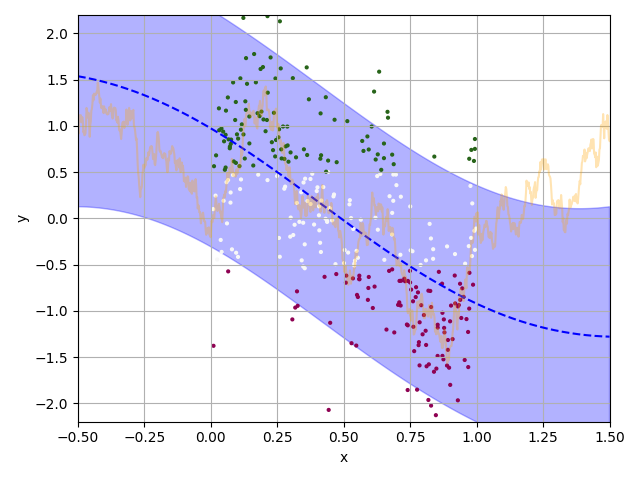
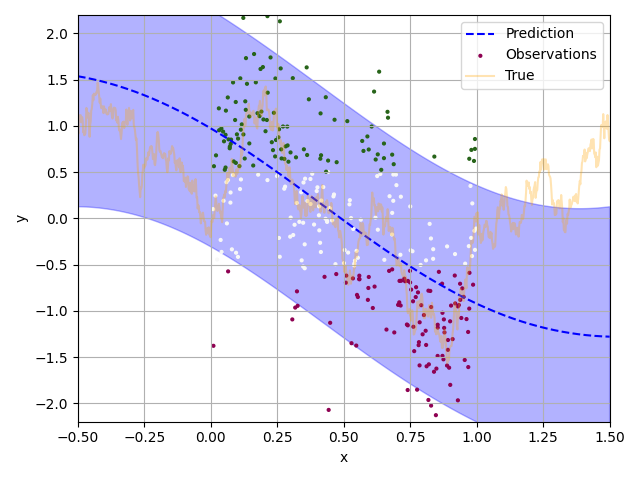
tidy package, change readme image

Changed region(s): [[0.7188, 0.0312, 0.9375, 0.1875], [0.0312, 0.4375, 0.0625, 0.4688]]

diff --git a/probit/approximators.py b/probit/approximators.py
@@ -4,33 +4,40 @@ import jax
 import lab.jax as B
 import jax.numpy as jnp
 from jax import value_and_grad, grad, jit, vmap
-from probit_jax.implicit.solvers import (
+from probit.implicit.solvers import (
     fwd_solver, newton_solver,
     fixed_point_layer, fixed_point_layer_fwd, fixed_point_layer_bwd)
-from probit_jax.implicit.Laplace import f_LA, objective_LA
-from probit_jax.implicit.VB import f_VB, objective_VB
+from probit.implicit.Laplace import f_LA, objective_LA
+from probit.implicit.VB import f_VB, objective_VB
 
 
 class Approximator(ABC):
     """
-    Base class for GP classification approximators.
+    Base class for GP regression/classification approximators.
 
-    This class allows users to define a classification problem,
+    This class allows users to define a regression/classification problem,
     get predictions using an approximate Bayesian inference. Here, N is the
-    number of training datapoints, D is the data input dimensions, J is the
-    number of ordinal classes, N_test is the number of testing datapoints.
+    number of training datapoints, D is the data input dimensions, N_test
+    is the number of testing datapoints.
 
+    All approximators must define a repr method.
     All approximators must define an init method, which may or may not
         inherit Sampler as a parent class using `super()`.
-    All approximators that inherit Approximator define a number of methods that
-        return the approximate posterior.
-    All approximators must define a :meth:`approximate_posterior` that can be
-        used to approximate the posterior and get ELBO gradients with respect
-        to the hyperparameters.
-    All approximators must define a :meth:`_approximate_initiate` that is used
-        to initiate approximate.
-    All approximators must define a :meth:`predict` can be used to make
-        predictions given test data.
+    All approximators that inherit Approximator define a number of methods
+        that return the approximate posterior.
+    All approximators must define a :meth:`construct` that can be
+        used to define an implicit layer that is differentiable,
+        in the spirit of
+        (this)[http://implicit-layers-tutorial.org/implicit_functions/].
+    All approximators must define a :meth:`objective` that can be
+        used to define a type-II maximum likelihood objective for
+        hyper-parameter optimization, e.g. (negative) log marginal
+        likelihood or (negative) ELBO.
+    All approximators must define a :meth:`weight` that can be
+        used to define the first moment of an approximate posterior.
+    All approximators must define a :meth:`precision` that takes in
+        `weights` and `parameters` and can be used to define the
+        second moment of an approximate posterior.
     """
 
     @abstractmethod
@@ -91,6 +98,7 @@ class Approximator(ABC):
         X_train, _ = data
         (self.N, self.D) = jnp.shape(X_train)
         self.data = data
+
         # Set up a JAX-transformable function for a custom VJP rule definition
         fixed_point_layer.defvjp(
             fixed_point_layer_fwd, fixed_point_layer_bwd)
@@ -99,7 +107,7 @@ class Approximator(ABC):
     def construct(self):
         """
         The parameterized function, which takes in parameters, that is the
-        function in fixed point iteration.
+        implicit function to be satisfied by fixed point iteration.
 
         This method should be implemented in every concrete Approximator.
         """
@@ -123,6 +131,7 @@ class Approximator(ABC):
         The weight, that is part of the solution of GP regression.
 
         This method should be implemented in every concrete Approximator.
+        Returns: A (N,) JAX array.
         """
 
     @abstractmethod
@@ -131,6 +140,7 @@ class Approximator(ABC):
         The precision, that is part of the solution of GP regression.
 
         This method should be implemented in every concrete Approximator.
+        Returns: A (N,) JAX array.
         """
 
     def predict(
@@ -139,15 +149,18 @@ class Approximator(ABC):
         parameters,
         weight, precision):
         """
-        Make posterior prediction over ordinal classes of X_test.
+        Make posterior predictions given test data, X_test.
 
         :arg X_test: The new data points, array like (N_test, D).
-        :arg weight: The solution of GP regression.
+        :arg parameters: The GP hyper-parameters like
+            ((tuple), (tuple)).
+        :arg weight: The solution of GP regression. Used to calculate
+            the first moment of the posterior predictions.
         :type weight: Array like (N,)`
-        :arg precision: Solution of GP regression.
-            Precisions used in calculation of posterior
-            predictions. Array like (N,).
-        :type precision: :class:`numpy.ndarray`
+        :arg precision: Solution of GP regression. Used to calculate
+            the second moment of the posterior predictions. Array
+            like (N,).
+        :type precision: Array like (N,)`
         :return: Gaussian process predictive mean and variance array.
         :rtype tuple: ((N_test,), (N_test,))
         """
@@ -162,10 +175,14 @@ class Approximator(ABC):
         return predictive_posterior_mean, predictive_posterior_variance
 
     def posterior_mean(self, weight):
+        """Returns a Gaussian Process mean."""
         K = B.dense(self.prior(parameters[0])(self.data[0]))
         return K @ weight
 
     def approximate_posterior(self, parameters):
+        """Returns weights and precisions that can be used to
+        calculate the first and second moments of an
+        approximate posterior."""
         w = self.weight(parameters)
         p, _ = self.precision(w, parameters)
         return w, p
@@ -197,35 +214,16 @@ class LaplaceGP(Approximator):
         """
         Create an :class:`LaplaceGP` Approximator object.
 
-        :returns: An :class:`EPGP` object.
+        :returns: An :class:`LaplaceGP` object.
         """
         super().__init__(*args, **kwargs)
 
     def construct(self):
-        """Fixed point iteration function"""
         return lambda parameters, weight: f_LA(
             prior_parameters=parameters[0],
             likelihood_parameters=parameters[1],
             prior=self.prior, grad_log_likelihood=self.grad_log_likelihood,
             weight=weight, data=self.data)
-
-    def weight(self, parameters):
-        """
-        :returns: A JAX array.
-        """
-        f = self.construct()
-        return newton_solver(lambda z: f(parameters, z),
-            jnp.zeros(self.N), self.tolerance)
-
-    def precision(self, weight, parameters):
-        """
-        :returns: A JAX array.
-        """
-        K = B.dense(self.prior(parameters[0])(self.data[0]))
-        posterior_mean = K @ weight
-        precision = -self.hessian_log_likelihood(
-            posterior_mean, self.data[1], parameters[1])
-        return precision, posterior_mean
 
     def objective(self):
         return lambda parameters: objective_LA(
@@ -236,7 +234,19 @@ class LaplaceGP(Approximator):
                 fixed_point_layer(jnp.zeros(self.N), self.tolerance,
                     newton_solver, self.construct(), parameters),
                 self.data)
-    
+
+    def weight(self, parameters):
+        f = self.construct()
+        return newton_solver(lambda z: f(parameters, z),
+            jnp.zeros(self.N), self.tolerance)
+
+    def precision(self, weight, parameters):
+        K = B.dense(self.prior(parameters[0])(self.data[0]))
+        posterior_mean = K @ weight
+        precision = -self.hessian_log_likelihood(
+            posterior_mean, self.data[1], parameters[1])
+        return precision, posterior_mean
+
 
 class VBGP(Approximator):
     """
@@ -265,28 +275,11 @@ class VBGP(Approximator):
         super().__init__(*args, **kwargs)
 
     def construct(self):
-        """Fixed point iteration function"""
         return lambda parameters, weight: f_VB(
             prior_parameters=parameters[0],
             likelihood_parameters=parameters[1],
             prior=self.prior, grad_log_likelihood=self.grad_log_likelihood,
             weight=weight, data=self.data)
-
-    def weight(self, parameters):
-        """
-        :returns: A JAX array.
-        """
-        f = self.construct()
-        return fwd_solver(lambda z: f(parameters, z),
-            jnp.zeros(self.N), self.tolerance)
-
-    def precision(self, weight, parameters):
-        """
-        :returns: A JAX array.
-        """
-        K = B.dense(self.prior(parameters[0])(self.data[0]))
-        posterior_mean = K @ weight
-        return 1./ parameters[1][0]**2 * jnp.ones(weight.shape[0]), posterior_mean
 
     def objective(self):
         return lambda parameters: objective_VB(
@@ -297,3 +290,12 @@ class VBGP(Approximator):
                 fwd_solver, self.construct(), parameters),
             self.data)
 
+    def weight(self, parameters):
+        f = self.construct()
+        return fwd_solver(lambda z: f(parameters, z),
+            jnp.zeros(self.N), self.tolerance)
+
+    def precision(self, weight, parameters):
+        K = B.dense(self.prior(parameters[0])(self.data[0]))
+        posterior_mean = K @ weight
+        return 1./ parameters[1][0]**2 * jnp.ones(weight.shape[0]), posterior_mean

diff --git a/examples/classification.py b/examples/classification.py
@@ -2,7 +2,8 @@
 # Uncomment to enable double precision
 from jax.config import config
 config.update("jax_enable_x64", True)
-from probit_jax.utilities import (
+
+from probit.utilities import (
     InvalidKernel, check_cutpoints,
     log_probit_likelihood, probit_predictive_distributions)
 import numpy as np
@@ -64,9 +65,10 @@ def plot(x, predictive_distributions, mean,
     ax.set_xlim(-0.5, 1.5)
     ax.set_xlabel('x', fontsize=10)
     ax.set_ylabel('y', fontsize=10)
-    ax.scatter(X_train, g_train, color=[colors[i] for i in y_train], s=4)
+    ax.scatter(X_train, g_train, color=[colors[i] for i in y_train], s=4, label="Observations")
     ax.plot(X_show, f_show, label="True", color='orange', alpha=FG_ALPHA)
     ax.grid(visible=True, which='major', linestyle='-')
+    ax.legend()
     plt.tight_layout()
     fig.savefig("{}_mean_variance.png".format(fname),
         facecolor=fig.get_facecolor(), edgecolor='none')
@@ -300,9 +302,9 @@ def main():
  
     approximate_inference_method = "Laplace"
     if approximate_inference_method=="Variational Bayes":
-        from probit_jax.approximators import VBGP as Approximator
+        from probit.approximators import VBGP as Approximator
     elif approximate_inference_method=="Laplace":
-        from probit_jax.approximators import LaplaceGP as Approximator
+        from probit.approximators import LaplaceGP as Approximator
 
     J = 3
     cmap = plt.cm.get_cmap('PiYG', J)

diff --git a/probit/implicit/solvers.py b/probit/implicit/solvers.py
@@ -1,4 +1,4 @@
-import jax
+from jax import jacobian, custom_vjp, vjp
 from functools import partial
 import jax.numpy as jnp
 from jaxopt import FixedPointIteration
@@ -21,11 +21,11 @@ def newton_solver(f, z_init, tolerance):
     variables at the fix-point.
     """
     f_root = lambda z: f(z) - z
-    g = lambda z: z - jnp.linalg.solve(jax.jacobian(f_root)(z), f_root(z))
+    g = lambda z: z - jnp.linalg.solve(jacobian(f_root)(z), f_root(z))
     return fwd_solver(g, z_init, tolerance)
 
 
-@partial(jax.custom_vjp, nondiff_argnums=(2, 3))
+@partial(custom_vjp, nondiff_argnums=(2, 3))
 def fixed_point_layer(z_init, tolerance, solver, f, params):
     """
     Following the tutorial, Chapter 2 of
@@ -52,8 +52,9 @@ def fixed_point_layer_fwd(z_init, tolerance, solver, f, params):
 
 def fixed_point_layer_bwd(solver, f, res, z_star_bar):
     z_init, tolerance, params, z_star = res
-    _, vjp_a = jax.vjp(lambda params: f(params, z_star), params)
-    _, vjp_z = jax.vjp(lambda z: f(params, z), z_star)
+    _, vjp_a = vjp(lambda params: f(params, z_star), params)
+    _, vjp_z = vjp(lambda z: f(params, z), z_star)
     return (None, None, 
-        *vjp_a(solver(lambda u: vjp_z(u)[0] + z_star_bar, z_init=z_init, tolerance=tolerance))
-        )
+        *vjp_a(solver(
+            lambda u: vjp_z(u)[0] + z_star_bar,
+            z_init=z_init, tolerance=tolerance)))

diff --git a/examples/regression.py b/examples/regression.py
@@ -2,6 +2,7 @@
 # Uncomment to enable double precision
 from jax.config import config
 config.update("jax_enable_x64", True)
+
 from probit_jax.utilities import log_gaussian_likelihood
 from probit_jax.approximators import LaplaceGP as GP
 import lab as B

diff --git a/probit/__init__.py b/probit/__init__.py
@@ -1,7 +1,5 @@
 """
 Probit.
 
-A module for multinomial probit regression with GP priors.
+A simple and tidy Gaussian process package in Jax.
 """
-
-__all__ = ["estimators", "kernels", "samplers", "utilities"]

diff --git a/probit/utilities.py b/probit/utilities.py
@@ -10,6 +10,7 @@ over_sqrt_2_pi = 1. / B.sqrt(2 * B.pi)
 log_over_sqrt_2_pi = jnp.log(over_sqrt_2_pi)
 sqrt_2 = B.sqrt(2)
 
+
 BOUNDS = {
     "single": [1.3, 1.8, 2.3],
     "double": [2.3, 3.6, 4.8]
